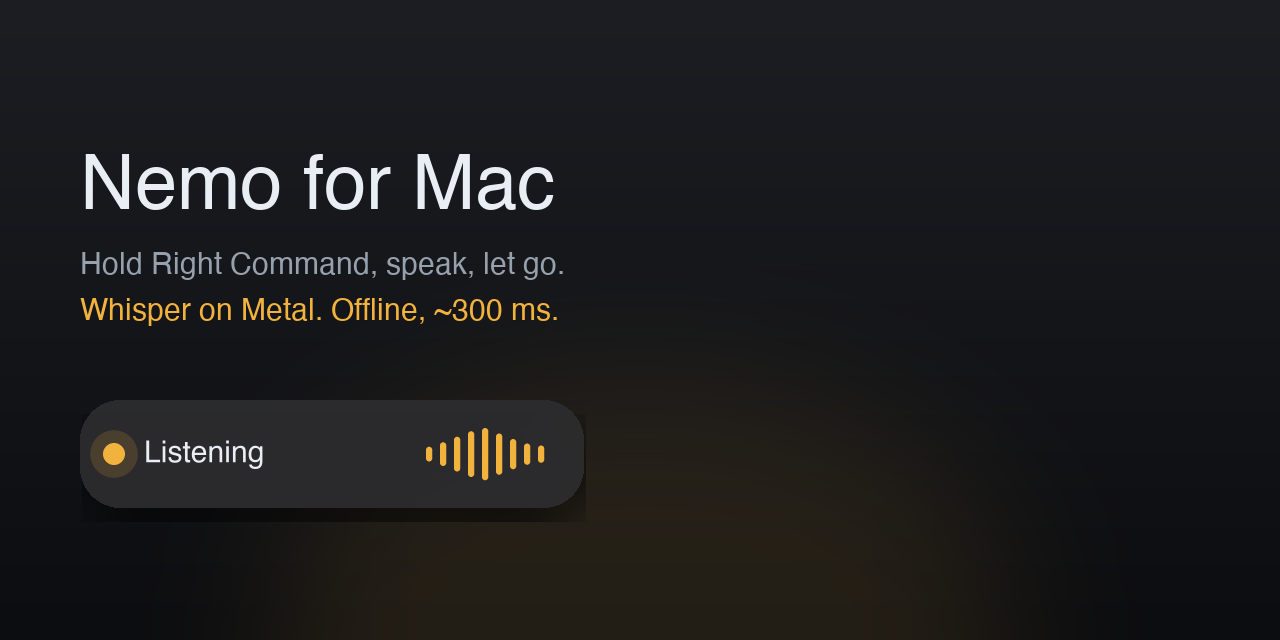
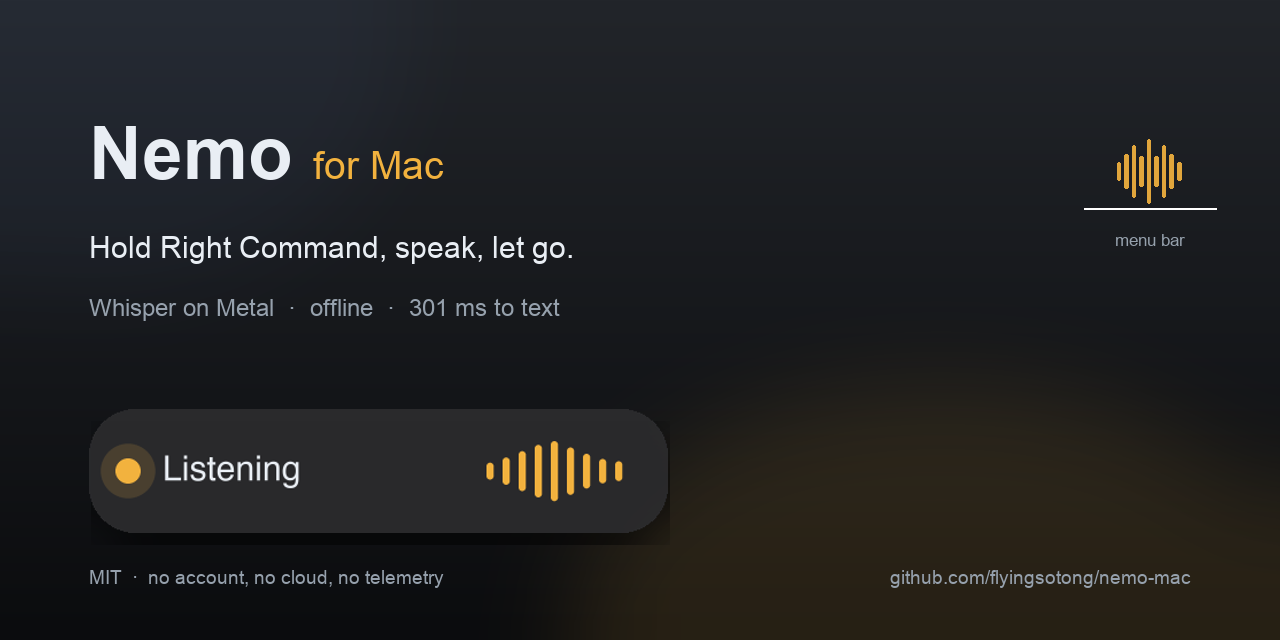
Social card: a real Open Graph image at both sizes
One layout renders 1280x640 (GitHub) and 1200x630 (everyone else), so the two can
never disagree. The pill comes from the app's renderer, and the menu bar icon sits
on a rule so the label means something. Wordmark baselines aligned; footer carries
the promise and the URL.

diff --git a/scripts/make_social.py b/scripts/make_social.py
@@ -1,0 +1,135 @@
+"""Build the Open Graph card.
+
+GitHub shows it at 1280x640; the rest of the web expects 1200x630. Both are drawn
+from one layout so they cannot disagree, and the pill in them comes from the app's
+own renderer rather than a drawing of it.
+
+Run:  .venv/bin/python scripts/make_social.py
+"""
+from __future__ import annotations
+
+import sys
+from pathlib import Path
+
+from PIL import Image, ImageDraw, ImageFilter, ImageFont
+
+ROOT = Path(__file__).resolve().parents[1]
+sys.path.insert(0, str(ROOT))
+
+from overlay_render import ACCENT, BG_BOT, FG, MUTED, render, W, H  # noqa: E402
+
+OUT = ROOT / "docs"
+GLASS = (44, 44, 46, 240)
+PILL_SCALE = 2
+
+REG = "/System/Library/Fonts/Supplemental/Arial.ttf"
+BOLD = "/System/Library/Fonts/Supplemental/Arial Bold.ttf"
+
+
+def font(px: int, bold: bool = False) -> ImageFont.FreeTypeFont:
+    for path in ((BOLD, REG) if bold else (REG, BOLD)):
+        if Path(path).exists():
+            try:
+                return ImageFont.truetype(path, px)
+            except Exception:
+                continue
+    return ImageFont.load_default()
+
+
+def backdrop(size: tuple[int, int]) -> Image.Image:
+    w, h = size
+    img = Image.new("RGB", size)
+    d = ImageDraw.Draw(img)
+    top, bottom = (34, 37, 42), (11, 12, 14)
+    for y in range(h):
+        t = y / max(1, h - 1)
+        d.line([(0, y), (w, y)],
+               fill=tuple(int(top[i] + (bottom[i] - top[i]) * t) for i in range(3)))
+    glow = Image.new("RGBA", size, (0, 0, 0, 0))
+    gd = ImageDraw.Draw(glow)
+    gd.ellipse([int(w * 0.42), int(h * 0.55), int(w * 1.05), int(h * 1.35)],
+               fill=(242, 178, 62, 30))
+    gd.ellipse([-int(w * 0.2), -int(h * 0.4), int(w * 0.35), int(h * 0.5)],
+               fill=(90, 120, 180, 18))
+    glow = glow.filter(ImageFilter.GaussianBlur(int(h * 0.09)))
+    return Image.alpha_composite(img.convert("RGBA"), glow).convert("RGB")
+
+
+def pill_body() -> Image.Image:
+    body = Image.new("RGBA", (W * PILL_SCALE, H * PILL_SCALE), (0, 0, 0, 0))
+    ImageDraw.Draw(body).rounded_rectangle(
+        [0, 0, body.width - 1, body.height - 1], radius=20 * PILL_SCALE, fill=GLASS)
+    body.alpha_composite(render("listening", 0.7,
+                                [0.15, 0.35, 0.6, 0.85, 1.0, 0.75, 0.5, 0.3, 0.2],
+                                scale=PILL_SCALE, glass=True))
+    return body
+
+
+def waveform(height: int, colour=ACCENT) -> Image.Image:
+    """The menu bar icon, at poster size."""
+    bars = [10, 18, 28, 16, 34, 16, 28, 18, 10]
+    unit = height / 34
+    width = int(44 * unit)
+    img = Image.new("RGBA", (width, int(height * 1.35)), (0, 0, 0, 0))
+    d = ImageDraw.Draw(img)
+    x = 4 * unit
+    for hgt in bars:
+        bar_h = hgt * unit
+        y0 = (img.height - bar_h) / 2
+        d.rounded_rectangle([x, y0, x + 2 * unit, y0 + bar_h],
+                            radius=max(1, unit), fill=colour + (235,))
+        x += 4 * unit
+    return img
+
+
+def card(size: tuple[int, int]) -> Image.Image:
+    w, h = size
+    img = backdrop(size).convert("RGBA")
+    d = ImageDraw.Draw(img)
+    pad = int(w * 0.07)
+
+    # wordmark, on one baseline so "for Mac" reads as a suffix, not a subtitle
+    big, small = font(int(h * 0.115), True), font(int(h * 0.062))
+    baseline = int(h * 0.28)
+    d.text((pad, baseline), "Nemo", font=big, fill=FG, anchor="ls")
+    nemo_w = d.textlength("Nemo", font=big)
+    d.text((pad + nemo_w + int(w * 0.016), baseline), "for Mac", font=small,
+           fill=ACCENT, anchor="ls")
+
+    d.text((pad, int(h * 0.36)), "Hold Right Command, speak, let go.",
+           font=font(int(h * 0.048)), fill=FG)
+    d.text((pad, int(h * 0.46)), "Whisper on Metal  ·  offline  ·  301 ms to text",
+           font=font(int(h * 0.038)), fill=MUTED)
+
+    body = pill_body()
+    body = body.resize((int(body.width * 1.15), int(body.height * 1.15)))
+    shadow = Image.new("RGBA", body.size, (0, 0, 0, 0))
+    shadow.paste((0, 0, 0, 130), (0, 0), body.getchannel("A"))
+    shadow = shadow.filter(ImageFilter.GaussianBlur(16))
+    py = int(h * 0.64)
+    img.alpha_composite(shadow, (pad + 2, py + 12))
+    img.alpha_composite(body, (pad, py))
+
+    # the icon sitting on a line, so the label "menu bar" has something to mean
+    icon = waveform(int(h * 0.10))
+    ix, iy = w - pad - icon.width, int(h * 0.20)
+    bar_y = iy + int(icon.height * 0.94)
+    d.line([(ix - int(w * 0.02), bar_y), (ix + icon.width + int(w * 0.02), bar_y)],
+           fill=(255, 255, 255, 28), width=2)
+    img.alpha_composite(icon, (ix, iy))
+    d.text((ix + icon.width // 2, bar_y + int(h * 0.035)), "menu bar",
+           font=font(int(h * 0.028)), fill=MUTED, anchor="ma")
+
+    d.text((pad, int(h * 0.885)), "MIT  ·  no account, no cloud, no telemetry",
+           font=font(int(h * 0.030)), fill=MUTED, anchor="la")
+    d.text((w - pad, int(h * 0.885)), "github.com/flyingsotong/nemo-mac",
+           font=font(int(h * 0.030)), fill=MUTED, anchor="ra")
+    return img.convert("RGB")
+
+
+if __name__ == "__main__":
+    OUT.mkdir(exist_ok=True)
+    for name, size in (("social-preview.png", (1280, 640)),
+                       ("og.png", (1200, 630))):
+        card(size).save(OUT / name, optimize=True)
+        print(f"docs/{name} {size[0]}x{size[1]}")
